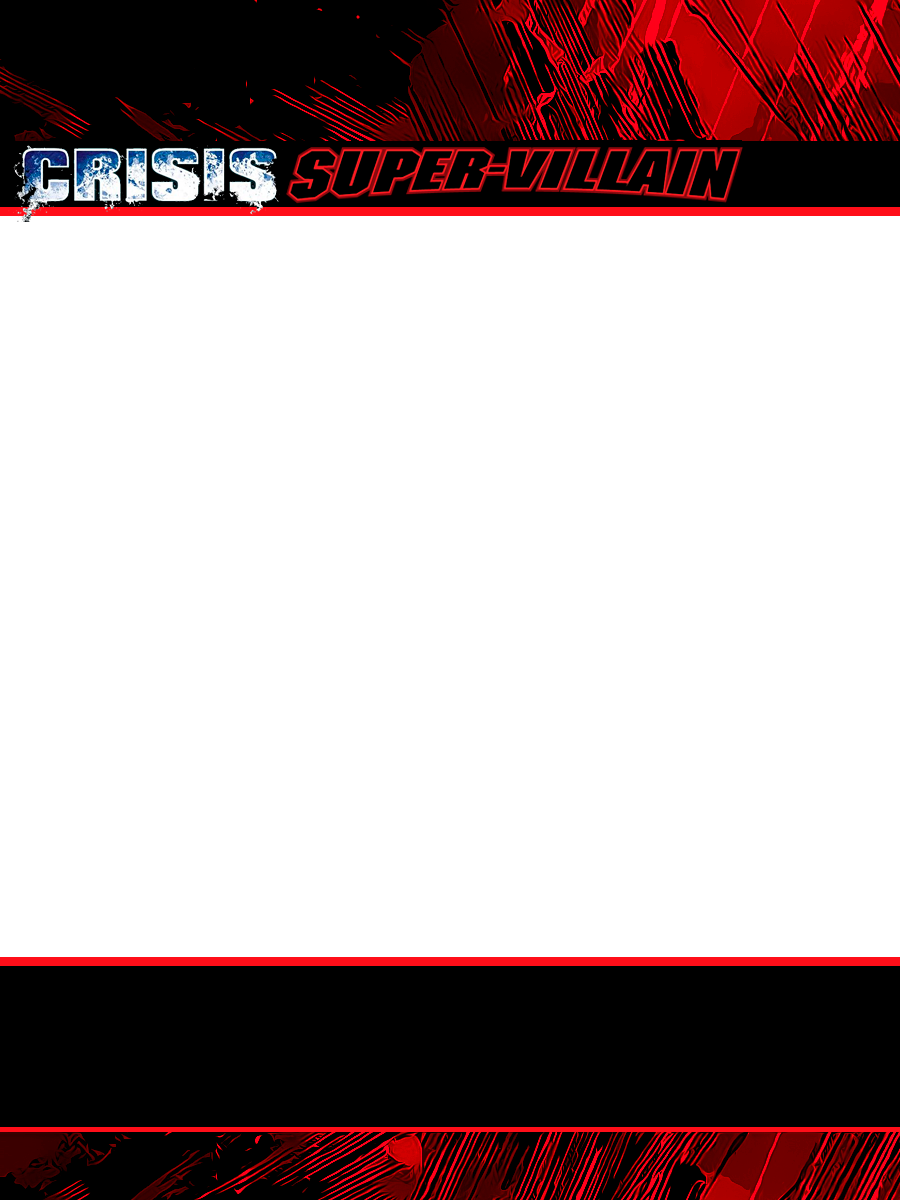
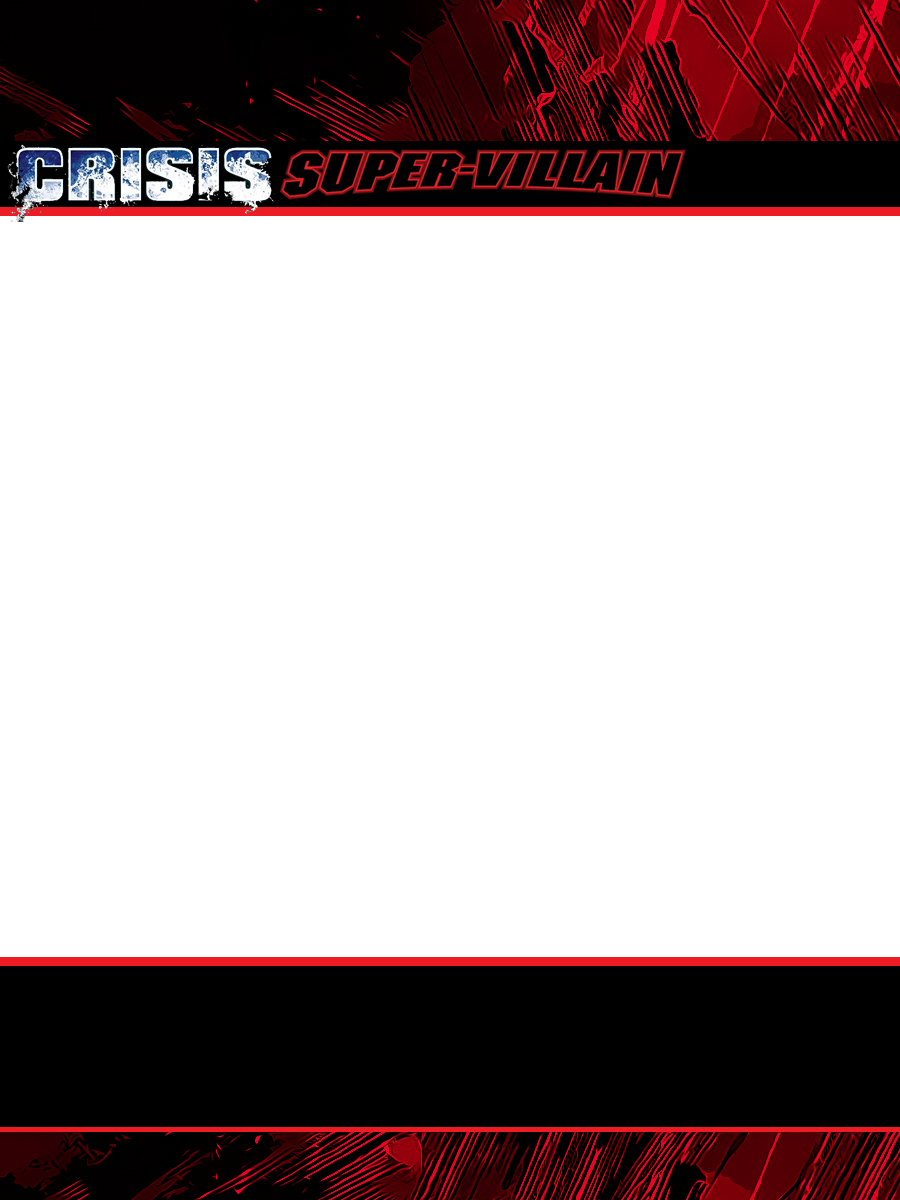
update imagens infinity war

diff --git a/src/gui/tabs/live-editor/live-editor-tables.ts b/src/gui/tabs/live-editor/live-editor-tables.ts
@@ -117,7 +117,7 @@ addTitlesTo(defaultsHeadings);
 export const defaultsRows: IRowValues[] = [
     {
         name: "__defaults__",
-        logoURL: "https://i.imgur.com/J6SuXcE.png",
+        logoURL: "https://i.imgur.com/UFuNhQp.png",
         set: "Teen Titans",
         setTextColor: "#ffec34",
         setBackgroundColor: "#ed1c24",

diff --git a/src/cards/card/card.ts b/src/cards/card/card.ts
@@ -441,10 +441,10 @@ export class Card {
             scale *= finalScale;
         }
 
-        let x = 714;
+        let x = 724;
         let y = 26;
         if (this.oversized) {
-            x = CARD_MAX_WIDTH - 40;
+            x = CARD_MAX_WIDTH - 30;
             y = 25;
         }
 
